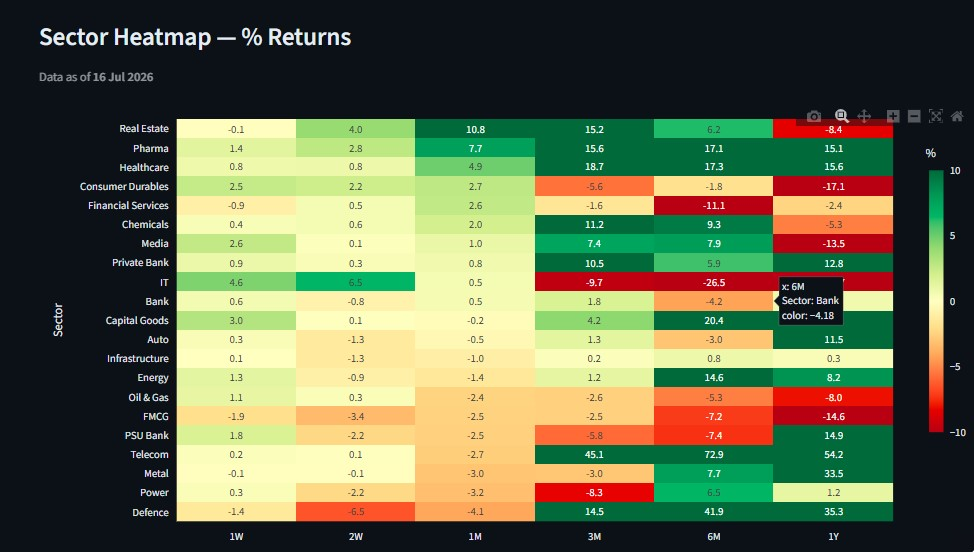
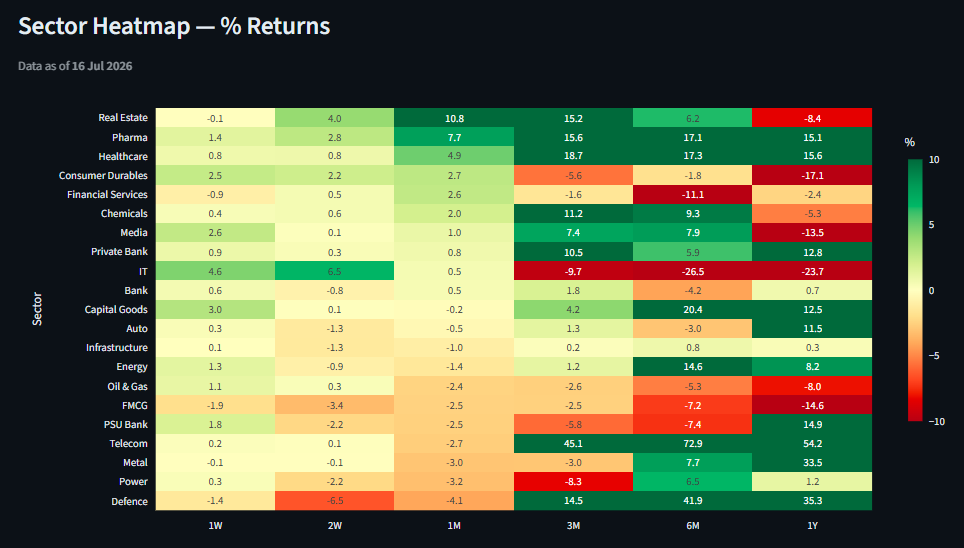
Finalize Market Pulse paywall overlay: readable image, tight button spacing
Show the preview screenshot at full aspect ratio with no crop and no
blur (still doesn't hit any DB/Yahoo call — it's a static asset), and
anchor the Sign In button directly under the message instead of
pinned to the container bottom, closing the gap the client asked
about. Also fixes the underlying bug: cta_key values built from page
names (e.g. "Market Pulse") contain a space, which silently broke
every CSS selector built from the Streamlit container key — added a
_slug() helper so the container key and its CSS selectors always
match.

diff --git a/app/utils/gated_overlay.py b/app/utils/gated_overlay.py
@@ -9,9 +9,18 @@ call, satisfying the "don't populate the page for a blocked visitor"
 requirement.
 """
 import base64
+import re
 from pathlib import Path
 
 import streamlit as st
+
+
+def _slug(s: str) -> str:
+    """CSS-class-safe token. Container keys/cta_keys may contain spaces
+    (e.g. cta_key derived from a page name like "Market Pulse") — Streamlit
+    turns those into a literal 'st-key-...' class with a space in it, which
+    silently breaks any compound CSS selector built from the raw string."""
+    return re.sub(r"[^a-zA-Z0-9_-]", "-", s)
 
 
 def render_gated_overlay(
@@ -25,70 +34,84 @@ def render_gated_overlay(
     """Render the blurred-background paywall card. Returns True if an image
     was found and the overlay was rendered; False if the caller should fall
     back to a plain st.info/st.warning block instead.
+
+    The image renders at its full natural aspect ratio (no cropping, no
+    scrollbars) — the card and CTA button are positioned as percentages of
+    the container so they stay correctly placed regardless of the image's
+    actual rendered height at any viewport width.
     """
     path = Path(image_path)
     if not path.exists():
         return False
 
     b64 = base64.b64encode(path.read_bytes()).decode()
+    slug = _slug(cta_key)
 
-    with st.container(key=f"gated_overlay_{cta_key}"):
+    with st.container(key=f"gated_overlay_{slug}"):
         st.markdown(
             f"""
             <style>
-            div.st-key-gated_overlay_{cta_key} {{
+            div.st-key-gated_overlay_{slug} {{
                 position: relative;
-                min-height: 420px;
                 border-radius: 12px;
                 overflow: hidden;
                 margin-bottom: 1rem;
+                line-height: 0;
             }}
-            div.st-key-gated_overlay_{cta_key} img.gated-bg-img {{
+            div.st-key-gated_overlay_{slug} img.gated-bg-img {{
+                display: block;
+                width: 100%;
+                height: auto;
+                filter: blur(0px) brightness(0.6) saturate(0.85);
+            }}
+            div.st-key-gated_overlay_{slug} .gated-scrim {{
                 position: absolute;
                 inset: 0;
-                width: 100%;
-                height: 100%;
-                object-fit: cover;
-                object-position: top;
-                filter: blur(8px) brightness(0.55);
-                z-index: 0;
+                background: radial-gradient(ellipse at center, rgba(0,0,0,0.35) 0%, rgba(0,0,0,0.15) 60%);
             }}
-            div.st-key-gated_overlay_{cta_key} .gated-card {{
-                position: relative;
+            div.st-key-gated_overlay_{slug} .gated-card {{
+                position: absolute;
+                top: 40%;
+                left: 50%;
+                transform: translate(-50%, -50%);
                 z-index: 1;
                 display: flex;
                 flex-direction: column;
                 align-items: center;
                 justify-content: center;
-                height: 380px;
+                width: 90%;
                 text-align: center;
-                padding: 24px;
+                line-height: normal;
             }}
-            div.st-key-gated_overlay_{cta_key} .gated-lock {{
-                font-size: 40px;
-                margin-bottom: 8px;
+            div.st-key-gated_overlay_{slug} .gated-lock {{
+                font-size: 48px;
+                margin-bottom: 10px;
             }}
-            div.st-key-gated_overlay_{cta_key} .gated-title {{
+            div.st-key-gated_overlay_{slug} .gated-title {{
                 color: #fff;
                 font-size: 22px;
                 font-weight: 700;
                 margin-bottom: 6px;
-                text-shadow: 0 1px 4px rgba(0,0,0,0.6);
+                text-shadow: 0 1px 4px rgba(0,0,0,0.8);
             }}
-            div.st-key-gated_overlay_{cta_key} .gated-message {{
+            div.st-key-gated_overlay_{slug} .gated-message {{
                 color: #eee;
                 font-size: 14px;
                 max-width: 420px;
-                margin-bottom: 18px;
-                text-shadow: 0 1px 4px rgba(0,0,0,0.6);
+                text-shadow: 0 1px 4px rgba(0,0,0,0.8);
             }}
-            div.st-key-gated_overlay_{cta_key} div[data-testid="stHorizontalBlock"] {{
-                position: relative;
+            div.st-key-gated_overlay_{slug} div[data-testid="stHorizontalBlock"] {{
+                position: absolute;
+                left: 50%;
+                top: 56%;
+                transform: translateX(-50%);
+                width: 60%;
+                min-width: 220px;
                 z-index: 2;
-                margin-top: -64px;
             }}
             </style>
             <img class="gated-bg-img" src="data:image/png;base64,{b64}" />
+            <div class="gated-scrim"></div>
             <div class="gated-card">
                 <div class="gated-lock">🔒</div>
                 <div class="gated-title">{title}</div>